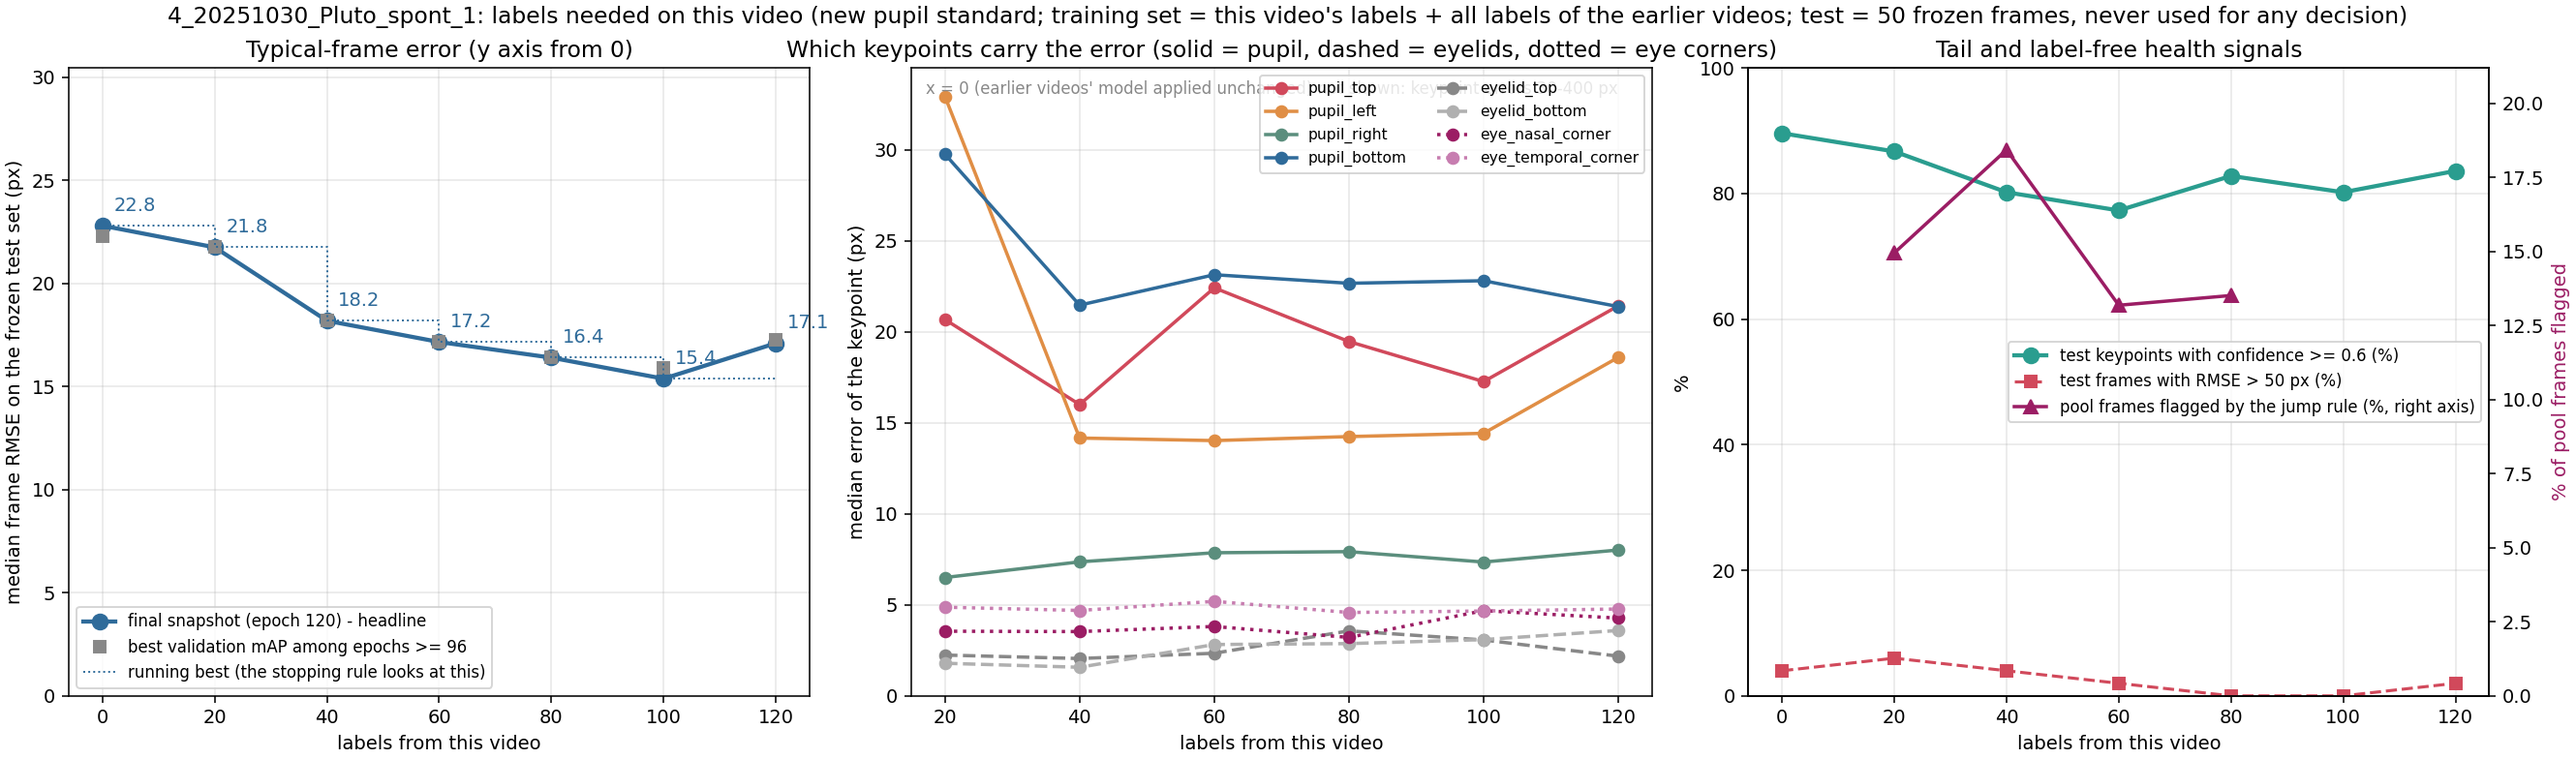
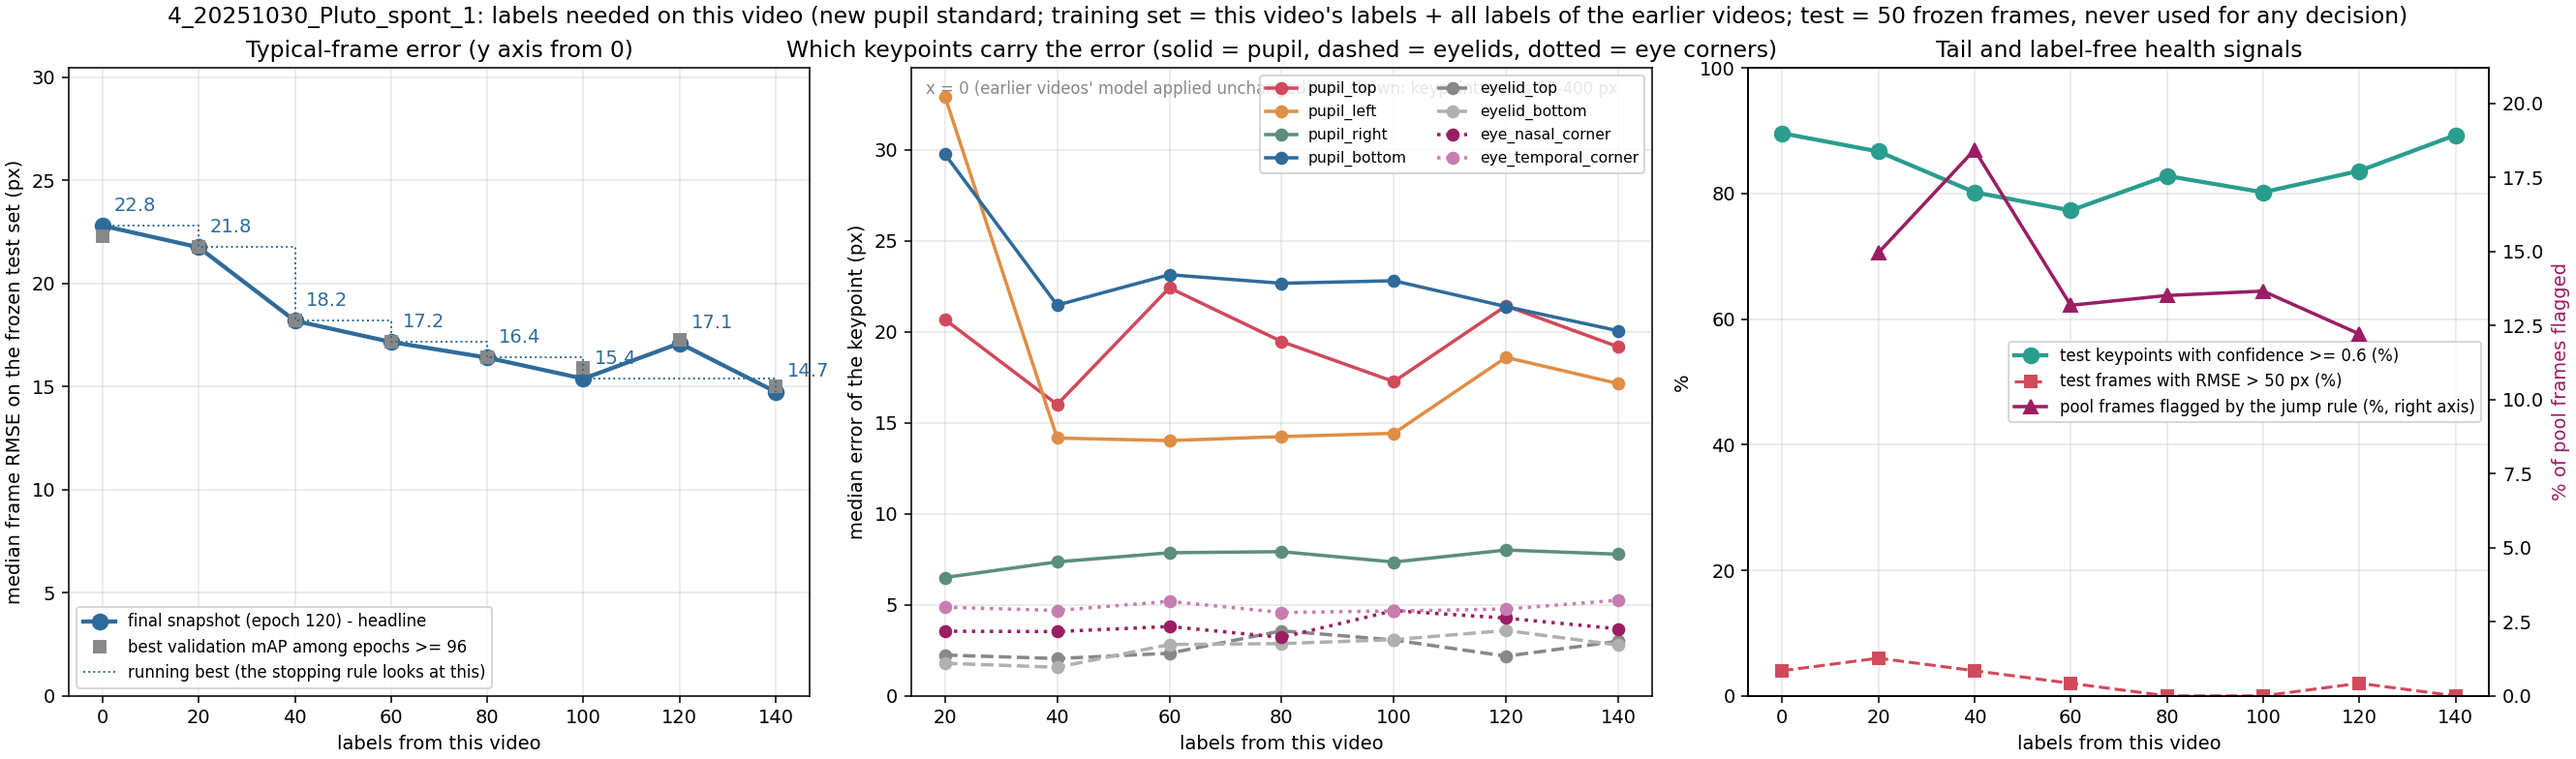
Video 4 (2025-10-30) step 7: 140 labels = 14.74 px (new best; plateau rule restarts); READMEs updated

diff --git a/README.md b/README.md
@@ -8,14 +8,14 @@ how many human labels are needed, and how few frames must a person correct, befo
 Zhiheng Li (University of Minnesota), with Kaiwen Sheng (Stanford). Raw videos, frames, labels, model weights and
 per-frame predictions stay local; git carries code, documentation and audited aggregate results.
 
-## Status (last updated 2026-09-25 17:40 CDT)
+## Status (last updated 2026-09-25 21:15 CDT)
 
 | what | state |
 |---|---|
 | Label standard | era 3 (since 2026-09-20): the pupil is an **ellipse**; its four points are the ellipse endpoints, including the part hidden under the lid |
 | Recipe (frozen) | ResNet-50, batch 2, trained from scratch, 120 epochs, LR drops at 96 / 114; headline = final snapshot, median per-frame RMSE over the 8 keypoints on 50 frozen test frames |
 | Videos done | video 0 (mouse A, 5 min), videos 1-3 (mouse B "Pluto", 2025-10-31) |
-| In progress | **video 4** (Pluto, 2025-10-30, poor image quality): best so far 15.38 px at 100 labels; 120 labels = 17.10 px (no improvement, first step toward the plateau rule); waiting for the decision on batch 7 |
+| In progress | **video 4** (Pluto, 2025-10-30, poor image quality): 140 labels = 14.74 px, new best (120 labels was 17.10 px); plateau not reached |
 | Blink / area analysis | per-video time series in `<video>/results/blink_area_analysis/`; across videos (`new_pupil_top_video_scaling/results/blink_area_consistency.png`): 4-point area better on 7 of 8 test sets; lowest pupil confidence < ~0.2 separates all 16 human closed-eye frames (the production 0.6 cut flags ~half of open frames); area correlates with eye opening in every video |
 | Test-set only | video 5 (2025-10-29), video 6 (2025-10-28) and video 7 (2025-10-27, test set being labeled): frozen test sets scored by every model so far |
 
@@ -29,7 +29,7 @@ Labels needed per video (plateau = two consecutive 20-label steps that improve t
 | 1 | Pluto, 2025-10-31 | 100 | 208 / 10.37 / 12.17 / 11.35 px | 20 labels, 10.4 px |
 | 2 | Pluto, 2025-10-31 | 200 | 9.99 / 7.73 / 7.57 / 7.83 px | 20 labels, 7.7 px |
 | 3 | Pluto, 2025-10-31 | 260 | 4.43 / 3.40 / 3.87 / 3.63 px | 20 labels, 3.4 px |
-| 4 | Pluto, 2025-10-30 (poor quality) | 320 | 22.80 / 21.75 / 18.19 / 17.16 / 16.40 / 15.38 px (120: 17.10) | not reached yet |
+| 4 | Pluto, 2025-10-30 (poor quality) | 320 | 22.80 / 21.75 / 18.19 / 17.16 / 16.40 / 15.38 px (120: 17.10, 140: 14.74) | not reached yet |
 
 What the numbers say:
 

diff --git a/new_pupil_top_video_scaling/results/README.md b/new_pupil_top_video_scaling/results/README.md
@@ -16,7 +16,7 @@ snapshot with the best validation mAP after the first learning-rate drop (epochs
 | 1 `1_20251031_Pluto_spont_1` | mouse B, 19.9 min | 100 (all of video 0) | 208.2 / 10.37 / 12.17 / 11.35 / 11.59 / 10.94 | **20 labels** | 10.37 px |
 | 2 `2_20251031_pluton2` | mouse B, 19.9 min (2nd recording) | 200 (videos 0 + 1) | 9.99 / 7.73 / 7.57 / 7.83 / 7.56 / – | **20 labels** (rule fired at 60; user stopped selecting at 60 labels on 2026-09-23; batch04 was already labeled and was trained + scored, no further selection) | 7.73 px |
 | 3 `3_20251031_pluto3` | mouse B, 19.9 min (3rd recording) | 260 (videos 0 + 1 + 60 of video 2) | 4.43 / 3.40 / 3.87 / 3.63 / – / – | **20 labels** (rule fired at 60) | 3.40 px |
-| 4 `4_20251030_Pluto_spont_1` | mouse B, 19.9 min, 2025-10-30 (poor image quality) | 320 (videos 0-3 as for video 3) | 22.80 / 21.75 / 18.19 / 17.16 / 16.40 / 15.38 / 17.10 (120) | not reached; first step without improvement at 120 | – |
+| 4 `4_20251030_Pluto_spont_1` | mouse B, 19.9 min, 2025-10-30 (poor image quality) | 320 (videos 0-3 as for video 3) | 22.80 / 21.75 / 18.19 / 17.16 / 16.40 / 15.38 / 17.10 (120) / 14.74 (140) | not reached (new best at 140) | – |
 
 Notes
 - With 50 test frames the median moves by about 1 px between neighbouring steps from sampling alone, so the

diff --git a/new_pupil_top_video_scaling/4_20251030_Pluto_spont_1/results/README.md b/new_pupil_top_video_scaling/4_20251030_Pluto_spont_1/results/README.md
@@ -19,6 +19,7 @@ k-means, later batches by jump rule + k-means. The video copy is `4_20251030_Plu
 | 80 | 16.40 px | 34.1 | 0% | 83% | 7,725 (13.5%) |
 | 100 | 15.38 px | 32.5 | 0% | 80% | 7,810 (13.7%) |
 | 120 | 17.10 px | 33.4 | 2% | 84% | 6,984 (12.2%) |
+| 140 | 14.74 px | 34.6 | 0% | 89% | (pending: step-7 whole-video prediction) |
 
 Training set of step 1 (shuffle 511): 100 labels of video 0 + 100 of video 1 + 60 of video 2 + 60 of video 3 +
 20 of this video (340 frames); validation = the 20 val frames of this video.
@@ -34,3 +35,6 @@ Plateau rule after step 6 (2026-09-25): the 120-label model (17.10 px) did not i
 (100 labels), so this is the first step with <= 3% improvement; the rule fires only if step 7 (140 labels) also fails
 to improve it by more than 3%. With 50 test frames on a video whose pupil edge is hard to see, a 1-2 px swing between
 steps is within noise.
+
+After step 7 (2026-09-25): 140 labels = 14.74 px, 4.2% better than the previous best (15.38 px at 100 labels), so the
+plateau rule restarts: the running best is now 14.74 px and the rule fires only after two further steps with <= 3% gain.
